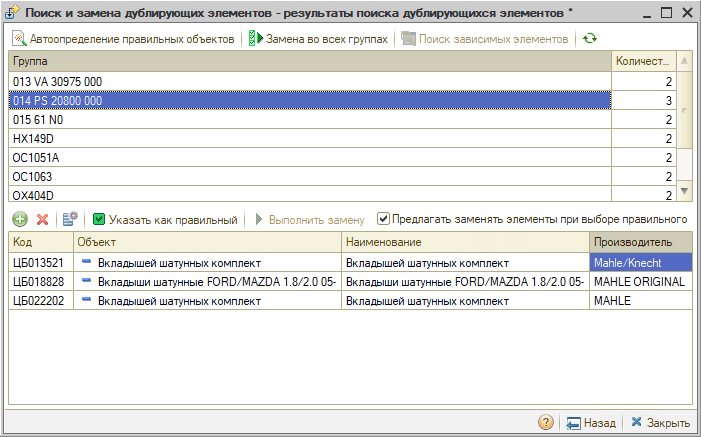
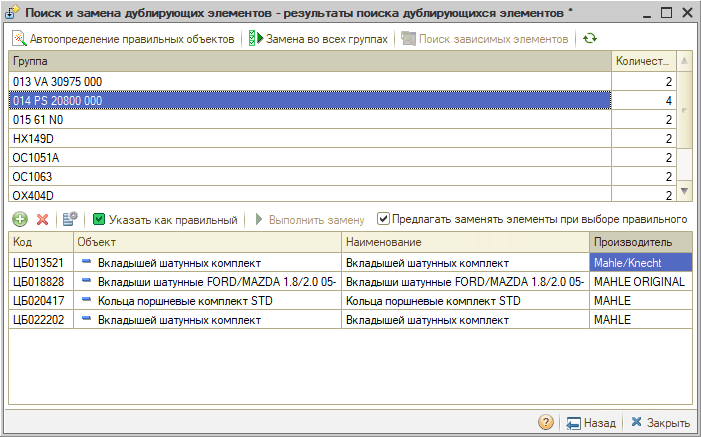
Статья «Поиск и замена дублирующихся записей» (Katya): в группе четвертая карточка – кольца поршневые (не дубль), скриншот 06 – удаление ее из списка; счетчик группы 4 на скриншотах 04–08; скриншоты 06–08 перенумерованы в 07–09 (Катя, 27.10.2026).

diff --git a/articles/5S AUTO/Администрирование и настройка системы/Поиск и замена дублирующихся записей/poisk-i-zamena-dubliruyuschikhsya-zapisey.md b/articles/5S AUTO/Администрирование и настройка системы/Поиск и замена дублирующихся записей/poisk-i-zamena-dubliruyuschikhsya-zapisey.md
@@ -59,7 +59,7 @@
 
 Если дубли не найдены, проверяем, что значения реквизита поиска у элементов совпадают полностью и в отборе указаны так же, как в элементах.
 
-В результате отображаются дублирующиеся записи, сгруппированные по реквизиту поиска. При клике на группу дублей в нижней табличной части детально отображаются записи справочника, совпадающие по реквизиту поиска (в данном случае по «№ по кат.»). В примере в группе «014 PS 20800 000» три карточки одной и той же детали – вкладышей шатунных: наименования и производители («Mahle/Knecht», «MAHLE ORIGINAL», «MAHLE») заведены по-разному, но номер по каталогу один:
+В результате отображаются дублирующиеся записи, сгруппированные по реквизиту поиска. При клике на группу дублей в нижней табличной части детально отображаются записи справочника, совпадающие по реквизиту поиска (в данном случае по «№ по кат.»). В примере в группе «014 PS 20800 000» четыре карточки. Три из них – одна и та же деталь, вкладыши шатунные: наименования и производители («Mahle/Knecht», «MAHLE ORIGINAL», «MAHLE») заведены по-разному, но номер по каталогу один. Четвертая карточка – кольца поршневые: это другая деталь, номер по каталогу у нее введен с ошибкой:
 
 ![Найденные дубли по номенклатуре](attachments/04-naydennye-dubli-po-nomenklature.png)
 
@@ -67,21 +67,25 @@
 
 ![Настройка списка](attachments/05-nastroyka-spiska.png)
 
-Внимательно просматриваем карточки номенклатуры дублей: чтобы открыть карточку, дважды щелкаем по строке в колонке «Объект» и нажимаем кнопку «Открыть». Совпадение реквизита поиска еще не означает, что это дубль: под одним номером по каталогу может оказаться другая деталь, например если номер введен с ошибкой. Такие записи кнопкой «Удалить» убираем из списка – в примере все три карточки являются дублями, поэтому оставляем их.
+Внимательно просматриваем карточки номенклатуры дублей: чтобы открыть карточку, дважды щелкаем по строке в колонке «Объект» и нажимаем кнопку «Открыть». Совпадение реквизита поиска еще не означает, что это дубль: под одним номером по каталогу может оказаться другая деталь, например если номер введен с ошибкой. Такие записи убираем из списка: выделяем строку и нажимаем кнопку «Удалить». В примере удаляем кольца поршневые и оставляем три дубля вкладышей:
+
+![Удаление из списка записи, которая не является дублем](attachments/06-udalenie-ne-dublya.png)
+
+Запись удаляется только из списка найденных дублей – сама карточка номенклатуры остается в справочнике.
 
 Если в элементе-дубле есть данные, которых нет в правильном элементе, переносим их в правильный элемент до объединения.
 
 Устанавливаем курсор на правильную запись (в примере – первая карточка) и нажимаем кнопку «Указать как правильный»:
 
-![Указание правильного среди дублей](attachments/06-ukazanie-pravilnogo-sredi-dubley.png)
+![Указание правильного среди дублей](attachments/07-ukazanie-pravilnogo-sredi-dubley.png)
 
 Соглашаемся заменить ссылки с неправильного на правильный элемент справочника в документах, регистрах и прочих объектах программы:
 
-![Принятие замены ссылок на дубли](attachments/07-prinyatie-zameny-ssylok-na-dubli.png)
+![Принятие замены ссылок на дубли](attachments/08-prinyatie-zameny-ssylok-na-dubli.png)
 
 В результате отображаются ссылки на данные, в которых произойдет замена, и настройки замены. По умолчанию все флажки включены: например, при включенном флажке «Удалять элементы после замены» элемент-дубль будет удален. При необходимости настройки замены можно изменить. Для замены нажимаем кнопку «Выполнить замену элементов»:
 
-![Замена элементов при объединении дублей](attachments/08-zamena-elementov-pri-obedinenii-dubley-1.png)
+![Замена элементов при объединении дублей](attachments/09-zamena-elementov-pri-obedinenii-dubley-1.png)
 
 Подтверждаем замену и удаление элементов справочника.
 
